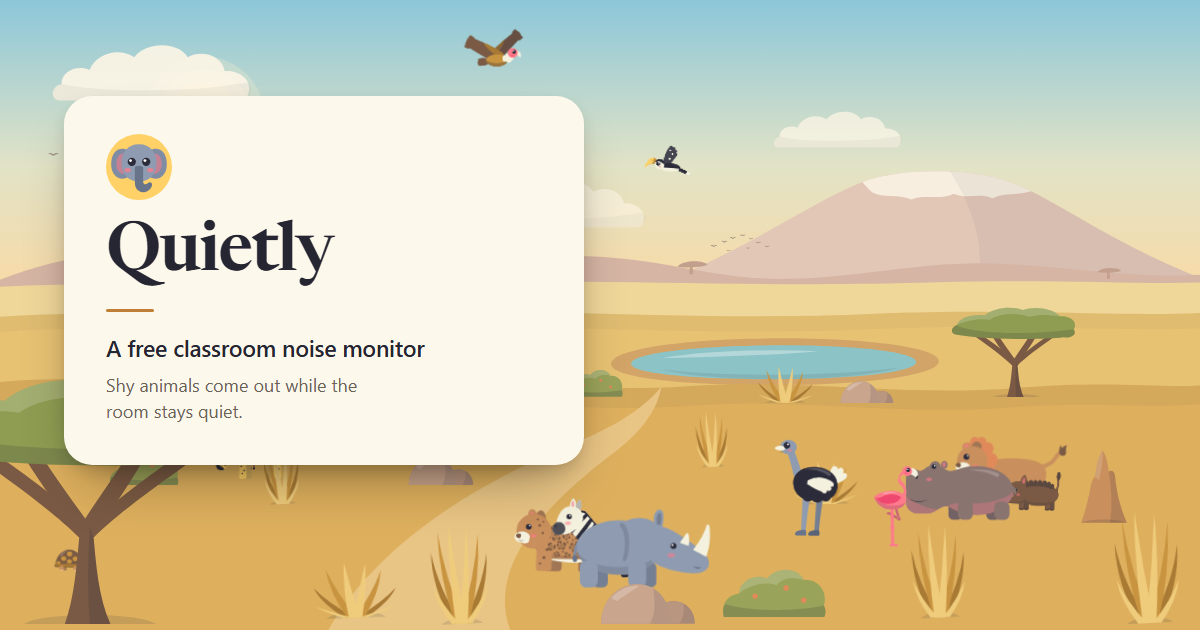
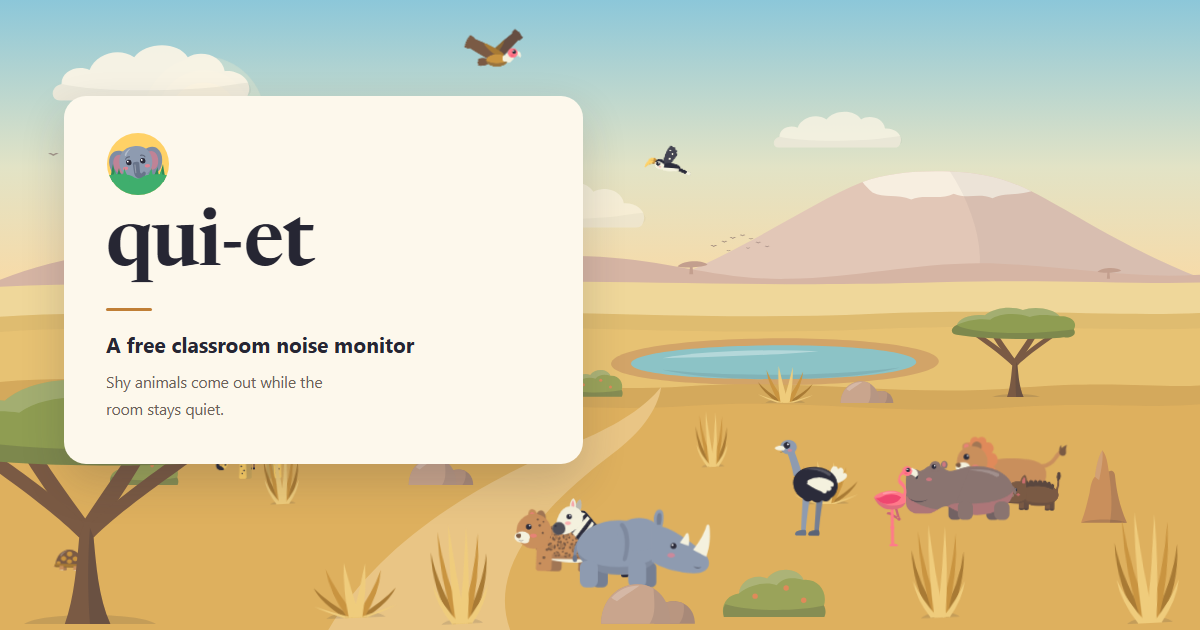
Call the app qui-et and live at qui-et.pages.dev
The brand is lowercase with a hyphen now: the start sheet, page titles, social
metadata, all three locales, the guide, the docs, the guide for answer engines
and the share card, which was re-rendered over the same savanna with the new
name. The Worker and the logo's clip id follow.

The canonical origin, sitemap, robots.txt and README move to
qui-et.pages.dev, so the metadata and the deployment finally agree in name.

🤖 Generated with Codebuff

diff --git a/src/lib/i18n/index.svelte.ts b/src/lib/i18n/index.svelte.ts
@@ -16,15 +16,15 @@ const en = {
   locale: "en",
   ui: {
     "language.change": "Change language",
-    "app.pageTitle": "Quietly — free classroom noise level monitor",
+    "app.pageTitle": "qui-et — free classroom noise level monitor",
     "app.description":
       "A free classroom noise monitor for the projector. Shy savanna and coral reef animals come out the longer the room stays quiet. No sign-up, nothing recorded.",
     "common.builtBy": "Built by teacher.dev",
     "common.privacy": "privacy",
     "common.howItWorks": "how it works",
     "preview.alt":
-      "A calm savanna with an elephant, zebras, a lion, a giraffe and a meerkat, beside the words Quietly, a free classroom noise monitor",
-    "common.back": "← Back to Quietly",
+      "A calm savanna with an elephant, zebras, a lion, a giraffe and a meerkat, beside the words qui-et, a free classroom noise monitor",
+    "common.back": "← Back to qui-et",
     "common.close": "Close",
     "common.cancel": "Cancel",
     "common.done": "Done",
@@ -34,10 +34,10 @@ const en = {
     "float.openHint":
       "Float the scene in a small window over your slides or other tabs",
     "float.failed": "The floating window could not be opened.",
-    "floating.title": "Quietly is floating",
+    "floating.title": "qui-et is floating",
     "floating.instructions":
       "The scene is in its own window over your other tabs, and keeps listening to the room. Keep this tab open: the window's back-to-tab button brings it back here.",
-    "floating.return": "Bring Quietly back here",
+    "floating.return": "Bring qui-et back here",
     "start.shy": "Shh… these animals are shy!",
     "start.explain":
       "If it gets too loud, they stay hidden. When the room is calm again, they'll start coming out.",
@@ -245,29 +245,29 @@ const en = {
     "blocked.unsupported":
       "This browser cannot use a microphone. Chrome, Edge and Safari all work.",
     "blocked.tryAgain": "Try again",
-    "privacy.pageTitle": "Privacy — Quietly",
-    "privacy.meta": "What Quietly collects, what it doesn't, and why.",
+    "privacy.pageTitle": "Privacy — qui-et",
+    "privacy.meta": "What qui-et collects, what it doesn't, and why.",
     "privacy.title": "Privacy",
     "privacy.lede": "What we collect, what we don't, and why.",
     "privacy.microphone":
-      "Quietly listens through your microphone only to measure how loud the room is. The sound is turned into a single volume level on this computer, moment by moment; it is never recorded, never saved, and never sent anywhere.",
+      "qui-et listens through your microphone only to measure how loud the room is. The sound is turned into a single volume level on this computer, moment by moment; it is never recorded, never saved, and never sent anywhere.",
     "privacy.local":
       "There are no accounts, and we do not collect personal information from teachers or students. Your settings, your calibration and the animals each of your classes has spotted are kept in this browser's local storage on this computer only, and clearing your browser data removes them.",
     "privacy.analytics.beforeLink":
-      "We use Cloudflare Web Analytics to anonymously count visits, which helps us understand how Quietly is being used in classrooms. Cloudflare Web Analytics is cookieless, does not fingerprint visitors, and does not track users across other sites; see Cloudflare's ",
+      "We use Cloudflare Web Analytics to anonymously count visits, which helps us understand how qui-et is being used in classrooms. Cloudflare Web Analytics is cookieless, does not fingerprint visitors, and does not track users across other sites; see Cloudflare's ",
     "privacy.analytics.link": "privacy policy",
     "privacy.analytics.afterLink":
       " for details. We do not share, sell, or otherwise transfer any visitor data to third parties.",
     "privacy.contact": "Questions or concerns? Email ",
-    "guide.title": "How Quietly works",
+    "guide.title": "How qui-et works",
     "guide.lede":
       "A free classroom noise level monitor that rewards quiet instead of punishing noise.",
     "guide.whatTitle": "What it is",
     "guide.what":
-      "Quietly is a classroom noise monitor that runs in a web browser. Put it on the projector or interactive whiteboard and it shows a calm savanna, coral reef, night sky in deep space, Cretaceous floodplain, woodland clearing, rainforest jungle or Arctic sea ice. It listens to how loud the room is through the computer's microphone, and while the class stays under the volume goal, shy animals come out one at a time. It is the opposite of a bouncing noise meter: there is no score, no needle and no red warning light, so nothing makes being loud more interesting than being quiet.",
+      "qui-et is a classroom noise monitor that runs in a web browser. Put it on the projector or interactive whiteboard and it shows a calm savanna, coral reef, night sky in deep space, Cretaceous floodplain, woodland clearing, rainforest jungle or Arctic sea ice. It listens to how loud the room is through the computer's microphone, and while the class stays under the volume goal, shy animals come out one at a time. It is the opposite of a bouncing noise meter: there is no score, no needle and no red warning light, so nothing makes being loud more interesting than being quiet.",
     "guide.useTitle": "Using it in class",
     "guide.use.open":
-      "Open Quietly on the computer connected to your projector, pick the savanna, the coral reef, deep space, the prehistoric scene, the forest, the jungle or the Arctic, and press Start. The browser asks to use the microphone.",
+      "Open qui-et on the computer connected to your projector, pick the savanna, the coral reef, deep space, the prehistoric scene, the forest, the jungle or the Arctic, and press Start. The browser asks to use the microphone.",
     "guide.use.goal":
       "Set the volume goal for the activity: Silent, Independent (quiet whispers) or Partner work (conversation voices), or drag the line on the meter to anywhere in between.",
     "guide.use.rate":
@@ -291,7 +291,7 @@ const en = {
     "guide.for":
       "Teachers of any grade who want a calm, visual cue for voice levels during independent work, reading time, tests, centers or group work. The whole class shares one screen, and students need nothing at all.",
     "guide.faqTitle": "Questions teachers ask",
-    "guide.faq.free.q": "Is Quietly free?",
+    "guide.faq.free.q": "Is qui-et free?",
     "guide.faq.free.a":
       "Yes. There are no paywalls, no ads and no premium version. It came out of the EdTech-a-thon, a community of builders making free tools for classrooms, and is maintained by teacher.dev.",
     "guide.faq.record.q": "Does it record the classroom?",
@@ -308,7 +308,7 @@ const en = {
       "English, Spanish and French. It follows the browser's language, and you can change it from the menu at the top of the screen.",
     "guide.faq.meter.q": "How is it different from a noise meter?",
     "guide.faq.meter.a":
-      "A noise meter shows the class how loud they are, which can turn getting louder into a game. Quietly shows only a peaceful scene that slowly fills with animals, so the reward for quiet work is what the class sees, and there is no score to beat.",
+      "A noise meter shows the class how loud they are, which can turn getting louder into a game. qui-et shows only a peaceful scene that slowly fills with animals, so the reward for quiet work is what the class sees, and there is no score to beat.",
   },
   creatures: {
     meerkat: "Meerkat",
@@ -620,15 +620,15 @@ const es = {
   locale: "es",
   ui: {
     "language.change": "Cambiar idioma",
-    "app.pageTitle": "Quietly — medidor de ruido gratuito para el aula",
+    "app.pageTitle": "qui-et — medidor de ruido gratuito para el aula",
     "app.description":
       "Un medidor de ruido gratuito para el proyector del aula. Animales tímidos de la sabana y del arrecife aparecen mientras la clase está en silencio. Sin registro, sin grabaciones.",
     "common.builtBy": "Creado por teacher.dev",
     "common.privacy": "privacidad",
     "common.howItWorks": "cómo funciona",
     "preview.alt":
-      "Una sabana tranquila con un elefante, cebras, un león, una jirafa y un suricata, junto a las palabras Quietly, un medidor de ruido gratuito para el aula",
-    "common.back": "← Volver a Quietly",
+      "Una sabana tranquila con un elefante, cebras, un león, una jirafa y un suricata, junto a las palabras qui-et, un medidor de ruido gratuito para el aula",
+    "common.back": "← Volver a qui-et",
     "common.close": "Cerrar",
     "common.cancel": "Cancelar",
     "common.done": "Listo",
@@ -638,10 +638,10 @@ const es = {
     "float.openHint":
       "Mostrar la escena en una ventana pequeña sobre tus diapositivas u otras pestañas",
     "float.failed": "No se pudo abrir la ventana flotante.",
-    "floating.title": "Quietly está flotando",
+    "floating.title": "qui-et está flotando",
     "floating.instructions":
       "La escena está en su propia ventana sobre tus otras pestañas y sigue escuchando el aula. Deja esta pestaña abierta: el botón de la ventana para volver a la pestaña la trae de vuelta aquí.",
-    "floating.return": "Traer Quietly de vuelta aquí",
+    "floating.return": "Traer qui-et de vuelta aquí",
     "start.shy": "Shh… ¡estos animales son tímidos!",
     "start.explain":
       "Si hay demasiado ruido, se quedan escondidos. Cuando el aula vuelva a estar tranquila, empezarán a salir.",
@@ -852,29 +852,29 @@ const es = {
     "blocked.unsupported":
       "Este navegador no puede usar un micrófono. Chrome, Edge y Safari funcionan.",
     "blocked.tryAgain": "Volver a intentarlo",
-    "privacy.pageTitle": "Privacidad — Quietly",
-    "privacy.meta": "Qué recopila Quietly, qué no y por qué.",
+    "privacy.pageTitle": "Privacidad — qui-et",
+    "privacy.meta": "Qué recopila qui-et, qué no y por qué.",
     "privacy.title": "Privacidad",
     "privacy.lede": "Qué recopilamos, qué no y por qué.",
     "privacy.microphone":
-      "Quietly escucha por el micrófono solo para medir cuánto ruido hay en el aula. El sonido se convierte en un único nivel de volumen en esta computadora, momento a momento; nunca se graba, nunca se guarda y nunca se envía a ningún sitio.",
+      "qui-et escucha por el micrófono solo para medir cuánto ruido hay en el aula. El sonido se convierte en un único nivel de volumen en esta computadora, momento a momento; nunca se graba, nunca se guarda y nunca se envía a ningún sitio.",
     "privacy.local":
       "No hay cuentas y no recopilamos información personal de docentes ni estudiantes. Tus ajustes, tu calibración y los animales que ha visto cada una de tus clases se guardan en el almacenamiento local de este navegador, solo en esta computadora; al borrar los datos del navegador se eliminan.",
     "privacy.analytics.beforeLink":
-      "Usamos Cloudflare Web Analytics para contar las visitas de forma anónima, lo que nos ayuda a entender cómo se usa Quietly en las aulas. Cloudflare Web Analytics no usa cookies, no crea huellas digitales de los visitantes y no los rastrea en otros sitios; consulta la ",
+      "Usamos Cloudflare Web Analytics para contar las visitas de forma anónima, lo que nos ayuda a entender cómo se usa qui-et en las aulas. Cloudflare Web Analytics no usa cookies, no crea huellas digitales de los visitantes y no los rastrea en otros sitios; consulta la ",
     "privacy.analytics.link": "política de privacidad",
     "privacy.analytics.afterLink":
       " de Cloudflare para más detalles. No compartimos, vendemos ni transferimos de ningún otro modo los datos de los visitantes a terceros.",
     "privacy.contact": "¿Tienes preguntas o dudas? Escribe a ",
-    "guide.title": "Cómo funciona Quietly",
+    "guide.title": "Cómo funciona qui-et",
     "guide.lede":
       "Un medidor de ruido gratuito para el aula que premia el silencio en lugar de castigar el ruido.",
     "guide.whatTitle": "Qué es",
     "guide.what":
-      "Quietly es un medidor de ruido para el aula que funciona en el navegador. Ponlo en el proyector o en la pizarra digital y muestra una sabana, un arrecife de coral, un cielo del espacio profundo, una llanura del Cretácico, un claro del bosque, una selva tropical o el hielo ártico tranquilos. Escucha lo fuerte que suena la clase a través del micrófono del ordenador y, mientras la clase se mantiene por debajo del límite de volumen, van apareciendo animales tímidos uno a uno. Es lo contrario de un medidor de ruido que salta: no hay puntuación, ni aguja, ni luz roja de aviso, así que hacer ruido nunca resulta más interesante que estar en silencio.",
+      "qui-et es un medidor de ruido para el aula que funciona en el navegador. Ponlo en el proyector o en la pizarra digital y muestra una sabana, un arrecife de coral, un cielo del espacio profundo, una llanura del Cretácico, un claro del bosque, una selva tropical o el hielo ártico tranquilos. Escucha lo fuerte que suena la clase a través del micrófono del ordenador y, mientras la clase se mantiene por debajo del límite de volumen, van apareciendo animales tímidos uno a uno. Es lo contrario de un medidor de ruido que salta: no hay puntuación, ni aguja, ni luz roja de aviso, así que hacer ruido nunca resulta más interesante que estar en silencio.",
     "guide.useTitle": "Cómo usarlo en clase",
     "guide.use.open":
-      "Abre Quietly en el ordenador conectado al proyector, elige la sabana, el arrecife de coral, el espacio profundo, la prehistoria, el bosque, la selva o el Ártico y pulsa Empezar. El navegador pedirá permiso para usar el micrófono.",
+      "Abre qui-et en el ordenador conectado al proyector, elige la sabana, el arrecife de coral, el espacio profundo, la prehistoria, el bosque, la selva o el Ártico y pulsa Empezar. El navegador pedirá permiso para usar el micrófono.",
     "guide.use.goal":
       "Elige el límite de volumen para la actividad: Silencio, Individual (solo susurros) o En parejas (voz de conversación), o arrastra la línea del medidor a cualquier punto intermedio.",
     "guide.use.rate":
@@ -898,7 +898,7 @@ const es = {
     "guide.for":
       "Para docentes de cualquier etapa que quieren una señal visual y tranquila del nivel de voz durante el trabajo individual, la lectura, los exámenes, los rincones o el trabajo en grupo. Toda la clase comparte una pantalla y el alumnado no necesita nada.",
     "guide.faqTitle": "Preguntas frecuentes",
-    "guide.faq.free.q": "¿Quietly es gratis?",
+    "guide.faq.free.q": "¿qui-et es gratis?",
     "guide.faq.free.a":
       "Sí. No hay muros de pago, ni anuncios, ni versión premium. Nació en el EdTech-a-thon, una comunidad que crea herramientas gratuitas para las aulas, y lo mantiene teacher.dev.",
     "guide.faq.record.q": "¿Graba lo que pasa en el aula?",
@@ -915,7 +915,7 @@ const es = {
       "En inglés, español y francés. Sigue el idioma del navegador, y puedes cambiarlo desde el menú de la parte superior de la pantalla.",
     "guide.faq.meter.q": "¿En qué se diferencia de un medidor de ruido?",
     "guide.faq.meter.a":
-      "Un medidor de ruido le muestra a la clase lo fuerte que está hablando, y eso puede convertir el hacer ruido en un juego. Quietly solo muestra una escena tranquila que se va llenando de animales, así que lo que la clase ve es la recompensa por trabajar en silencio, y no hay ninguna puntuación que batir.",
+      "Un medidor de ruido le muestra a la clase lo fuerte que está hablando, y eso puede convertir el hacer ruido en un juego. qui-et solo muestra una escena tranquila que se va llenando de animales, así que lo que la clase ve es la recompensa por trabajar en silencio, y no hay ninguna puntuación que batir.",
   },
   scenes: {
     space: {
@@ -1195,15 +1195,15 @@ const fr = {
   locale: "fr",
   ui: {
     "language.change": "Changer de langue",
-    "app.pageTitle": "Quietly — sonomètre gratuit pour la classe",
+    "app.pageTitle": "qui-et — sonomètre gratuit pour la classe",
     "app.description":
       "Un sonomètre gratuit pour le vidéoprojecteur de la classe. Des animaux timides de la savane et du récif sortent tant que la classe reste calme. Sans inscription, sans enregistrement.",
     "common.builtBy": "Créé par teacher.dev",
     "common.privacy": "confidentialité",
     "common.howItWorks": "comment ça marche",
     "preview.alt":
-      "Une savane paisible avec un éléphant, des zèbres, un lion, une girafe et un suricate, à côté des mots Quietly, un sonomètre gratuit pour la classe",
-    "common.back": "← Retour à Quietly",
+      "Une savane paisible avec un éléphant, des zèbres, un lion, une girafe et un suricate, à côté des mots qui-et, un sonomètre gratuit pour la classe",
+    "common.back": "← Retour à qui-et",
     "common.close": "Fermer",
     "common.cancel": "Annuler",
     "common.done": "Terminé",
@@ -1213,10 +1213,10 @@ const fr = {
     "float.openHint":
       "Afficher la scène dans une petite fenêtre au-dessus de vos diapositives ou d’autres onglets",
     "float.failed": "Impossible d’ouvrir la fenêtre flottante.",
-    "floating.title": "Quietly est dans une fenêtre flottante",
+    "floating.title": "qui-et est dans une fenêtre flottante",
     "floating.instructions":
       "La scène est dans sa propre fenêtre au-dessus de vos autres onglets et continue d’écouter la classe. Gardez cet onglet ouvert : le bouton de retour à l’onglet de la fenêtre la ramène ici.",
-    "floating.return": "Ramener Quietly ici",
+    "floating.return": "Ramener qui-et ici",
     "start.shy": "Chut… ces animaux sont timides !",
     "start.explain":
       "S’il y a trop de bruit, ils restent cachés. Quand la classe redevient calme, ils commencent à sortir.",
@@ -1428,31 +1428,31 @@ const fr = {
     "blocked.unsupported":
       "Ce navigateur ne peut pas utiliser de micro. Chrome, Edge et Safari fonctionnent tous.",
     "blocked.tryAgain": "Réessayer",
-    "privacy.pageTitle": "Confidentialité — Quietly",
+    "privacy.pageTitle": "Confidentialité — qui-et",
     "privacy.meta":
-      "Ce que Quietly collecte, ce qu’il ne collecte pas, et pourquoi.",
+      "Ce que qui-et collecte, ce qu’il ne collecte pas, et pourquoi.",
     "privacy.title": "Confidentialité",
     "privacy.lede":
       "Ce que nous collectons, ce que nous ne collectons pas, et pourquoi.",
     "privacy.microphone":
-      "Quietly écoute par le micro uniquement pour mesurer le niveau sonore de la classe. Le son est transformé en un simple niveau de volume sur cet ordinateur, instant après instant ; il n’est jamais enregistré, jamais conservé et jamais envoyé nulle part.",
+      "qui-et écoute par le micro uniquement pour mesurer le niveau sonore de la classe. Le son est transformé en un simple niveau de volume sur cet ordinateur, instant après instant ; il n’est jamais enregistré, jamais conservé et jamais envoyé nulle part.",
     "privacy.local":
       "Il n’y a pas de compte, et nous ne collectons aucune information personnelle sur les enseignants ou les élèves. Vos réglages, votre étalonnage et les animaux aperçus par chacune de vos classes sont conservés dans le stockage local de ce navigateur, sur cet ordinateur uniquement ; effacer les données du navigateur les supprime.",
     "privacy.analytics.beforeLink":
-      "Nous utilisons Cloudflare Web Analytics pour compter les visites de façon anonyme, ce qui nous aide à comprendre comment Quietly est utilisé en classe. Cloudflare Web Analytics n’utilise pas de cookies, ne crée pas d’empreinte des visiteurs et ne les suit pas sur d’autres sites ; consultez la ",
+      "Nous utilisons Cloudflare Web Analytics pour compter les visites de façon anonyme, ce qui nous aide à comprendre comment qui-et est utilisé en classe. Cloudflare Web Analytics n’utilise pas de cookies, ne crée pas d’empreinte des visiteurs et ne les suit pas sur d’autres sites ; consultez la ",
     "privacy.analytics.link": "politique de confidentialité",
     "privacy.analytics.afterLink":
       " de Cloudflare pour en savoir plus. Nous ne partageons, ne vendons ni ne transférons d’aucune autre manière les données des visiteurs à des tiers.",
     "privacy.contact": "Des questions ou des inquiétudes ? Écrivez à ",
-    "guide.title": "Comment fonctionne Quietly",
+    "guide.title": "Comment fonctionne qui-et",
     "guide.lede":
       "Un sonomètre gratuit pour la classe qui récompense le calme au lieu de punir le bruit.",
     "guide.whatTitle": "Ce que c'est",
     "guide.what":
-      "Quietly est un sonomètre pour la classe qui fonctionne dans le navigateur. Affichez-le au vidéoprojecteur ou sur le tableau interactif : il montre une savane, un récif de corail, un ciel de l'espace profond, une plaine du Crétacé, une clairière en forêt, une jungle tropicale ou une banquise arctique paisibles. Il écoute le niveau sonore de la salle grâce au micro de l'ordinateur et, tant que la classe reste sous l'objectif de volume, des animaux timides sortent un par un. C'est le contraire d'un sonomètre qui s'agite : pas de score, pas d'aiguille, pas de voyant rouge, donc rien ne rend le bruit plus intéressant que le calme.",
+      "qui-et est un sonomètre pour la classe qui fonctionne dans le navigateur. Affichez-le au vidéoprojecteur ou sur le tableau interactif : il montre une savane, un récif de corail, un ciel de l'espace profond, une plaine du Crétacé, une clairière en forêt, une jungle tropicale ou une banquise arctique paisibles. Il écoute le niveau sonore de la salle grâce au micro de l'ordinateur et, tant que la classe reste sous l'objectif de volume, des animaux timides sortent un par un. C'est le contraire d'un sonomètre qui s'agite : pas de score, pas d'aiguille, pas de voyant rouge, donc rien ne rend le bruit plus intéressant que le calme.",
     "guide.useTitle": "L'utiliser en classe",
     "guide.use.open":
-      "Ouvrez Quietly sur l'ordinateur relié au vidéoprojecteur, choisissez la savane, le récif de corail, l'espace profond, la préhistoire, la forêt, la jungle ou l'Arctique, puis appuyez sur Commencer. Le navigateur demande l'accès au micro.",
+      "Ouvrez qui-et sur l'ordinateur relié au vidéoprojecteur, choisissez la savane, le récif de corail, l'espace profond, la préhistoire, la forêt, la jungle ou l'Arctique, puis appuyez sur Commencer. Le navigateur demande l'accès au micro.",
     "guide.use.goal":
       "Réglez l'objectif de volume pour l'activité : Silence, Travail seul (chuchotements) ou En binôme (voix de conversation), ou faites glisser la ligne du sonomètre n'importe où entre les deux.",
     "guide.use.rate":
@@ -1476,7 +1476,7 @@ const fr = {
     "guide.for":
       "Pour les enseignants de tous niveaux qui veulent un repère visuel et apaisant du niveau de voix pendant le travail autonome, la lecture, les évaluations, les ateliers ou le travail de groupe. Toute la classe partage un seul écran et les élèves n'ont besoin de rien.",
     "guide.faqTitle": "Questions fréquentes",
-    "guide.faq.free.q": "Quietly est-il gratuit ?",
+    "guide.faq.free.q": "qui-et est-il gratuit ?",
     "guide.faq.free.a":
       "Oui. Pas de paiement, pas de publicité, pas de version premium. Il est né de l'EdTech-a-thon, une communauté qui crée des outils gratuits pour les classes, et il est maintenu par teacher.dev.",
     "guide.faq.record.q": "Est-ce qu'il enregistre la classe ?",
@@ -1493,7 +1493,7 @@ const fr = {
       "L'anglais, l'espagnol et le français. Il suit la langue du navigateur, et vous pouvez la changer depuis le menu en haut de l'écran.",
     "guide.faq.meter.q": "En quoi est-ce différent d'un sonomètre ?",
     "guide.faq.meter.a":
-      "Un sonomètre montre à la classe à quel point elle est bruyante, ce qui peut transformer le bruit en jeu. Quietly ne montre qu'une scène paisible qui se remplit peu à peu d'animaux : ce que la classe voit, c'est la récompense du travail silencieux, et il n'y a aucun score à battre.",
+      "Un sonomètre montre à la classe à quel point elle est bruyante, ce qui peut transformer le bruit en jeu. qui-et ne montre qu'une scène paisible qui se remplit peu à peu d'animaux : ce que la classe voit, c'est la récompense du travail silencieux, et il n'y a aucun score à battre.",
   },
   scenes: {
     space: {

diff --git a/src/routes/+page.svelte b/src/routes/+page.svelte
@@ -76,7 +76,7 @@
    */
   const webApplication = $derived({
     "@type": "WebApplication",
-    name: "Quietly",
+    name: "qui-et",
     url: absoluteUrl("/"),
     description: t("app.description"),
     image: PREVIEW_IMAGE,
@@ -208,7 +208,7 @@
       // 4:3, the Scene's own shape, and small enough to sit beside a slide.
       pip = await controller.requestWindow({ width: 480, height: 360 });
       const page = pip.document;
-      page.title = "Quietly";
+      page.title = "qui-et";
       page.documentElement.lang = current().locale;
       // Scales the corner controls with the window: see layout.css.
       page.documentElement.classList.add("floating");
@@ -353,7 +353,7 @@
                 <h1
                   class="mt-4 font-display text-[3rem] leading-[0.92] font-semibold tracking-[-0.02em] text-balance text-ink sm:text-[3.6rem] short:mt-2 short:text-[1.75rem]"
                 >
-                  Quietly
+                  qui-et
                 </h1>
                 <div
                   class="mt-5 h-[3px] w-12 rounded-full bg-ochre/70 short:hidden"

diff --git a/src/lib/site.ts b/src/lib/site.ts
@@ -1,11 +1,11 @@
 /**
- * Where Quietly lives on the web, for the few places that need absolute
+ * Where qui-et lives on the web, for the few places that need absolute
  * addresses: canonical links, social previews, structured data and the
  * sitemap. Every older address redirects here, so search engines are pointed
  * at this one and nowhere else.
  */
 
-export const SITE_URL = "https://shy-safari-science.cooltest.workers.dev";
+export const SITE_URL = "https://qui-et.pages.dev";
 
 /** Every page a search engine should know about, in sitemap order. */
 export const PAGES = ["/", "/privacy"] as const;

diff --git a/src/lib/components/PageMeta.svelte b/src/lib/components/PageMeta.svelte
@@ -35,7 +35,7 @@
   <meta name="description" content={description} />
   <link rel="canonical" href={url} />
   <meta property="og:type" content="website" />
-  <meta property="og:site_name" content="Quietly" />
+  <meta property="og:site_name" content="qui-et" />
   <meta property="og:title" content={title} />
   <meta property="og:description" content={description} />
   <meta property="og:url" content={url} />

diff --git a/src/lib/components/InfoDrawer.svelte b/src/lib/components/InfoDrawer.svelte
@@ -15,7 +15,7 @@
 
 <script lang="ts">
   /**
-   * What the Scene only shows, said in words: what Quietly is, how to use
+   * What the Scene only shows, said in words: what qui-et is, how to use
    * it and what teachers ask about it.
    *
    * Unlike Settings it is always in the document, and closing it only hides

diff --git a/src/lib/components/DocPage.svelte b/src/lib/components/DocPage.svelte
@@ -30,7 +30,7 @@
         class="flex items-center gap-2 font-display text-lg font-semibold tracking-tight text-ink hover:text-ink-soft"
       >
         <img src={logoUrl} alt="" class="size-9" />
-        Quietly
+        qui-et
       </a>
       <div class="flex items-center gap-2">
         <a

diff --git a/README.md b/README.md
@@ -1,4 +1,4 @@
-# Quietly
+# qui-et
 
 A calm scene on the classroom projector — a savanna, a coral reef, deep
 space, the age of dinosaurs, a woodland clearing, the jungle or the Arctic — where animals (or, in deep space, sightings
@@ -80,9 +80,9 @@ bun run build && bunx wrangler dev   # the built site, served the way Cloudflare
 
 The site is hosted on Cloudflare Workers as static assets (`wrangler.jsonc`), with
 `static/_redirects` and `static/_headers` for redirects and caching.
-`shy-safari-science.cooltest.workers.dev` is the canonical origin, and the old
-addresses redirect to it; keep it that way, because every class's settings and
-notes live in that origin's localStorage.
+`qui-et.pages.dev` is the canonical origin, and the old addresses redirect to
+it; keep it that way, because every class's settings and notes live in that
+origin's localStorage.
 
 Cloudflare Web Analytics is added to the build only when `CF_BEACON_TOKEN` is
 set, which it is only as a build variable on the production Cloudflare build.

diff --git a/docs/adr/0002-svg-dom-scene.md b/docs/adr/0002-svg-dom-scene.md
@@ -25,6 +25,6 @@ is what makes a second Scene (safari, butterfly garden) content work instead of
 a rewrite. The ceiling on visual fidelity is lower than filmed video: the reef
 will read as a stylised illustration, not a documentary.
 
-The product has since been rebranded from Quiet Reef to Quietly, and the
-reef Scene is being replaced by a safari one — the content-not-rewrite path
-this decision anticipated.
+The product has since been rebranded from Quiet Reef to Shy Safari and now to
+qui-et, and the reef Scene is being replaced by a safari one — the
+content-not-rewrite path this decision anticipated.

diff --git a/docs/svg-art-brief.md b/docs/svg-art-brief.md
@@ -1,7 +1,7 @@
 # SVG art brief — coral reef Scene
 
 > **Reef Scene.** This brief describes the coral reef artwork, one of the three
-> Scenes in Quietly. The savanna (`src/lib/scenes/savanna/`) follows the
+> Scenes in qui-et. The savanna (`src/lib/scenes/savanna/`) follows the
 > same style rules and SVG constraints with its own palette and Roster, and so
 > does the Arctic (`src/lib/scenes/arctic/`, §13). The
 > palette, backdrop and Roster specifics below are reef-only. The jungle

diff --git a/docs/adr/0001-nothing-is-taken-away.md b/docs/adr/0001-nothing-is-taken-away.md
@@ -31,7 +31,7 @@ replacing them: Ambient Life keeps an unpopulated Scene from reading as broken,
 and the murk/dim shift gives loudness a visible consequence that is atmospheric
 rather than punitive.
 
-The Quietly framing ("the animals are shy, so they won't come out while it
+The qui-et framing ("the animals are shy, so they won't come out while it
 is too loud") is this decision told to children: loudness delays the next
 arrival, it never scares away an animal that is already out.
 
